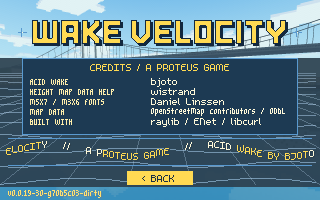
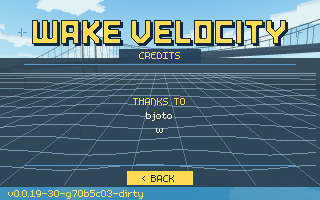
Use a vertical credits roll thanking bjoto and w

diff --git a/tools/boat_title.c b/tools/boat_title.c
@@ -555,44 +555,54 @@ static void draw_credits(const Title *t)
     }
     for (int x = -320; x <= 640; x += 64)
         DrawLine(160 + (x - 160) / 8, 73, x, 185, Fade(p.border, .2f));
-    // Solid backing keeps attribution readable at every point in the animation.
-    Color backing = p.panel;
-    backing.a = 255;
-    DrawRectangle(22, 58, 276, 77, backing);
-    DrawRectangleLines(22, 58, 276, 77, p.border);
-    const char *heading = "CREDITS / A PROTEUS GAME";
-    draw_text(t->ui, heading, (WIDTH - text_width(t->ui, heading)) / 2, 64, p.selected);
-    static const char *const labels[]
-        = { "ACID WAKE", "HEIGHT MAP DATA HELP", "M5X7 / M3X6 FONTS", "MAP DATA", "BUILT WITH" };
-    static const char *const names[] = { "bjoto", "wistrand", "Daniel Linssen",
-        "OpenStreetMap contributors / ODbL", "raylib / ENet / libcurl" };
-    for (int i = 0; i < 5; ++i) {
-        draw_text(t->small, labels[i], 30, 79 + i * 10, p.hint);
-        draw_text(i == 3 ? t->small : t->ui, names[i], 151, 78 + i * 10, p.text);
-    }
-    // Classic sine scroller, clipped in the native render target rather than window space.
-    static const char message[]
-        = "WAKE VELOCITY   //   A PROTEUS GAME   //   "
-          "ACID WAKE BY BJOTO   //   HEIGHT MAP DATA HELP BY WISTRAND   //   "
-          "FONTS BY DANIEL LINSSEN   //   MAP DATA: OPENSTREETMAP CONTRIBUTORS (ODbL)   //   "
-          "BUILT WITH RAYLIB, ENET AND LIBCURL   //   GREETINGS FROM THE GOTHENBURG WATERFRONT!   "
-          "//   ";
-    int period = text_width(t->ui, message);
-    int origin = 16 - (int)fmod(elapsed * 34, period + 64);
-    for (int copy = 0; copy < 2; ++copy) {
-        int x = origin + copy * (period + 64);
-        for (size_t i = 0; message[i]; ++i) {
-            char letter[2] = { message[i], 0 };
-            if (x >= 5 && x < WIDTH - 10) {
-                int y = 147 + (int)roundf(sinf(x * .04f + phase * 2) * 6);
-                draw_text(t->ui, letter, x + 1, y + 1, p.shadow);
-                draw_text(t->ui, letter, x, y, i % 24 < 12 ? p.selected : p.text);
-            }
-            x += text_width(t->ui, letter);
+    const char *heading = "CREDITS";
+    DrawRectangle(119, 49, 82, 14, p.panel);
+    draw_text(t->ui, heading, (WIDTH - text_width(t->ui, heading)) / 2, 52, p.selected);
+    // A movie-style roll: one font, centred lines and a quiet gap between sections.
+    static const struct {
+        const char *text;
+        bool heading;
+    } lines[] = {
+        { "THANKS TO", true },
+        { "bjoto", false },
+        { "w", false },
+        { "", false },
+        { "", false },
+        { "FONTS", true },
+        { "Daniel Linssen", false },
+        { "m5x7 / m3x6", false },
+        { "", false },
+        { "", false },
+        { "MAP DATA", true },
+        { "OpenStreetMap contributors", false },
+        { "ODbL 1.0", false },
+        { "", false },
+        { "", false },
+        { "LIBRARIES", true },
+        { "raylib", false },
+        { "ENet", false },
+        { "libcurl", false },
+        { "", false },
+        { "", false },
+        { "A PROTEUS GAME", true },
+    };
+    int count = (int)(sizeof(lines) / sizeof(lines[0]));
+    int period = count * 14 + 112;
+    int origin = 98 - (int)fmod(elapsed * 10, period);
+    DrawLine(24, 64, 296, 64, p.border);
+    DrawLine(24, 165, 296, 165, p.border);
+    // Scissor coordinates are in the title's native 320x200 render target.
+    BeginScissorMode(24, 66, 272, 97);
+    for (int copy = 0; copy < 2; ++copy)
+        for (int i = 0; i < count; ++i) {
+            int y = origin + copy * period + i * 14;
+            if (y < 59 || y >= 163 || !lines[i].text[0])
+                continue;
+            int x = (WIDTH - text_width(t->ui, lines[i].text)) / 2;
+            draw_text(t->ui, lines[i].text, x + 1, y + 1, p.shadow);
+            draw_text(t->ui, lines[i].text, x, y, lines[i].heading ? p.selected : p.text);
         }
-    }
-    DrawLine(8, 138, 312, 138, p.border);
-    DrawLine(8, 165, 312, 165, p.border);
+    EndScissorMode();
     DrawRectangleRec(row_bounds(t, 0), p.selected);
     draw_text(t->ui, "< BACK", 142, 175, p.selected_text);
 }
@@ -608,7 +618,7 @@ static void draw_screen(const Title *t, const BoatTitleSettings *s, const char *
         draw_credits(t);
     else
         draw_menu(t, s, status);
-    draw_footer_text(t->small, PROTEUS_VERSION, 8);
+    draw_footer_text(t->panel == PANEL_CREDITS ? t->ui : t->small, PROTEUS_VERSION, 8);
     EndTextureMode();
 }
 

diff --git a/docs/README.md b/docs/README.md
@@ -29,7 +29,7 @@ Details and current verification limits stay in the guide.
 | Area and owning document | Implemented | Remaining / next task |
 | --- | --- | --- |
 | [Free-riding adventure / Vinga](FREE_RIDING_ADVENTURE_PLAN.md) | A0.1 original river [inventory and reference](adventure/baseline.md), A0.2 [pinned coastal sources](adventure/README.md#coastal-sources-a02-2026-10-25) (OSM corridor, land polygons, Vinga A storm slice; terrain not acquired), A0.3 [route/coverage survey](adventure/README.md#route-and-coverage-survey-a03-2026-10-25) (19.6 km candidate route to Vinga, 10.9 km² first slice to Långedrag, 512 m tile experiment) and A0.4 [controlled river baseline](adventure/baseline.md#a04-controlled-river-baseline--2026-10-25) (M1 Max frame p95 ≤5.7 ms; paced display 58.6 Hz, since 60.00 Hz with the [frame pacer](BOATING_PERFORMANCE.md#frame-pacing--2026-10-25)) completed 2026-10-25, closing A0 with its [decision record](FREE_RIDING_ADVENTURE_FIRST_STEPS.md#a0-decision-record--2026-10-25); A1.1 [explicit map description and caller-owned collision cache](FREE_RIDING_ADVENTURE_FIRST_STEPS.md#a11--explicit-map-data-and-collision-cache-construction) completed 2026-10-25 with unchanged river queries and captures; A1.2 [caller-owned world resources through worlds, sessions, fleets and networking](FREE_RIDING_ADVENTURE_FIRST_STEPS.md#a12-result-2026-10-25) completed 2026-10-25 with the global wrapper removed and traces, captures and content digest unchanged; A1.3 [view-owned water-mesh caches](FREE_RIDING_ADVENTURE_FIRST_STEPS.md#a13-result-2026-10-25) completed 2026-10-25 with mesh topology and all CPU/GPU review captures unchanged; A1.4 [explicit CPU/GPU scenery binding](FREE_RIDING_ADVENTURE_FIRST_STEPS.md#a14-result-2026-10-25) completed 2026-10-25 with all river captures unchanged; A1.5 [lifecycle/parity gate](FREE_RIDING_ADVENTURE_FIRST_STEPS.md#a15-result-2026-10-25) completed 2026-10-25 (reload, release, failure and GPU recreate parity; ASan/UBSan clean; frame p95 within the A0.4 baseline), [completing A1](FREE_RIDING_ADVENTURE_FIRST_STEPS.md#a1-completion--2026-10-25); A2 [tiled current river](FREE_RIDING_ADVENTURE_FIRST_STEPS.md#a2--tiled-current-river) split into A2.1–A2.5, with A2.1 [submission and triangle counters](FREE_RIDING_ADVENTURE_FIRST_STEPS.md#a21-result-2026-10-25) (pixels and traces unchanged) and A2.2 [tile catalogue and indexed collision](FREE_RIDING_ADVENTURE_FIRST_STEPS.md#a22-result-2026-10-25) (16 m grid; no mismatch in 3.6 M comparisons with the full scan) and A2.3 [per-tile land culling](FREE_RIDING_ADVENTURE_FIRST_STEPS.md#a23-result-2026-10-25) (1 km tiles; median map triangles 0.86 M → 0.14 M, GPU p50 −14%) completed 2026-10-25, and A2.4 [indexed water](FREE_RIDING_ADVENTURE_FIRST_STEPS.md#a24-result-2026-10-26) (256 m grid; CPU captures identical, mean CPU triangles 2.34 M → 1.30 M; GPU waves captures identical to main; GPU CTests passed) completed 2026-10-26, and A2.5 [same-view scaling](FREE_RIDING_ADVENTURE_FIRST_STEPS.md#a25-result-2026-10-26) (synthetic corridors to 25 km: queries, patches and visible water identical and constant-cost; CPU water tessellated lazily, 218 MB to 112 MB; GPU timing not run) completed 2026-10-26, completing A2; detailed [execution ledger](FREE_RIDING_ADVENTURE_FIRST_STEPS.md) | A3.1 [baked first-slice map](FREE_RIDING_ADVENTURE_FIRST_STEPS.md#a31-result-2026-10-26) (16.5 km² region; the A0.3 route is water under collision queries; not yet a playable location) and A3.1b [Baskarta land heights](FREE_RIDING_ADVENTURE_FIRST_STEPS.md#a31b-result-2026-10-26) (CC0 contours, 20 m inland / 5 m near shore, 165 k triangles, heights to 78 m; datum unconfirmed, GPU tests not run) completed 2026-10-26, and A3.2 [mapped `outer` location](FREE_RIDING_ADVENTURE_FIRST_STEPS.md#a32-result-2026-10-26) (`--location outer`; CPU and GPU captures, full suite passed; frame cost unmeasured) the same day, and A3.3 [river buildings and bridge baked into the outer map](FREE_RIDING_ADVENTURE_FIRST_STEPS.md#a33-result-2026-10-26) (240 k triangles; flat 3.5 m ground inside the river crop; CPU and GPU captures under the bridge; GPU frame time unmeasured); A3.4 [Långedrag voyage](FREE_RIDING_ADVENTURE_FIRST_STEPS.md#a34-result-2026-10-26) (solo `outer`: destination cue and controlled-speed arrival, shelters with recovery, fixed exposed rough water; autopilot-verified, unplayed; GPU captures partial) completed 2026-10-26; after the [first playtest](FREE_RIDING_ADVENTURE_FIRST_STEPS.md#a34-playtest-2026-10-26) (long run, barren past the bridge), A3.5a [dressing past the bridge](FREE_RIDING_ADVENTURE_FIRST_STEPS.md#a35a-result-2026-10-26) (1,956 OSM buildings on the terrain, container cranes, channel marks, 3,050 authored trees; 307 k triangles; unplayed, GPU frame time unmeasured) completed 2026-10-26, and an [explorer boat](FREE_RIDING_ADVENTURE_FIRST_STEPS.md#explorer-boat-2026-10-26) (`--skin explorer`: about 30 m/s when free boating solo; courses and rooms unchanged; unplayed) the same day; A3.5b [Höjdmodell 2022 terrain](FREE_RIDING_ADVENTURE_FIRST_STEPS.md#a35b-result-2026-10-27) (CC0 laser-scanned ground for the whole outer map, the river crop's houses and street life moved onto it; 387 k triangles; CPU captures only, GPU unverified, unplayed) completed 2026-10-27, and A3.5c [river kit in `outer`](FREE_RIDING_ADVENTURE_FIRST_STEPS.md#a35c-result-2026-10-27) (Eriksberg crane, bridge deck, cafe, street furniture, frontages and quay fittings on the terrain; CPU only) the same day; Göteborg landmarks (A3.5d–A3.5g: Stena ferry, upstream extension, Karlatornet, Lilla Bommen, Hisingsbron) [planned](FREE_RIDING_ADVENTURE_FIRST_STEPS.md#must-have-landmarks-plan-2026-10-27), with A3.5e [the docked Stena ferry](FREE_RIDING_ADVENTURE_FIRST_STEPS.md#a35e-result-2026-10-27) (Stena Danica's size across from the crane, in `river` and `outer`; CPU and GPU captures, unplayed) completed 2026-10-27; A3.5 weather transition and bounded loading next ([plan](FREE_RIDING_ADVENTURE_PLAN.md)); A2.5's GPU scaling timing is still unmeasured; then the staged adventure to Vinga |
-| [Boating title and main program](TITLE_SCREEN_PLAN.md) | Marine cartoon daylight (default, blue panels/yellow title after user feedback) and retained cyan dusk menus selected with `PROTEUS_WARM_MENU`; shared backdrop/title geometry and in-game m5x7/m3x6 typography implemented 2026-10-28; setup/join/host/settings retained; dedicated [Credits screen](TITLE_SCREEN_PLAN.md#credits-screen-2026-10-28) with fixed attribution, sine scroller and water grid | Marine blue/yellow palette user-approved 2026-10-28; physical input/playback review pending; current verification and package limits in the owning plan; live backdrop, title music and volume deferred |
+| [Boating title and main program](TITLE_SCREEN_PLAN.md) | Marine cartoon daylight (default, blue panels/yellow title after user feedback) and retained cyan dusk menus selected with `PROTEUS_WARM_MENU`; shared backdrop/title geometry and in-game m5x7/m3x6 typography implemented 2026-10-28; setup/join/host/settings retained; dedicated [Credits screen](TITLE_SCREEN_PLAN.md#credits-screen-2026-10-28) with a vertical roll, Thanks to section and animated water grid | Marine blue/yellow palette user-approved 2026-10-28; physical input/playback review pending; current verification and package limits in the owning plan; live backdrop, title music and volume deferred |
 | [Gameplay sunset](SUNSET_PLAN.md) | User-selected dusk direction and staged plan recorded 2026-10-27; title-only palette preview | Shared lighting frame and unchanged-daytime parity next, then fixed sunset/dusk in CPU/GPU sky, water, scenery and window lights; gameplay sunset not implemented |
 | [Multiplayer](MULTIPLAYER_PLAN.md) | Native-first authoritative four-player design, protocol/wake strategy and verification gates; M2 local four-boat authority (`boat_fleet`, scripted `boat_server`) implemented and user-played; M3 [protocol v1](MULTIPLAYER_PROTOCOL.md), ENet transport, `boat_server` rooms, `boat_bot` and diagnostic `wake_velocity --connect` implemented; M4 step 1 client prediction (`boat_prediction`, checkpoint/input replay) implemented | M3 and M4 step 1 automated and agent-run loopback checks pass on macOS; M4 step 1 user-played beside `boat_bot` (2026-10-24); M4 steps 2 (wake reconciliation), 3 (remote view) and 4a (fleet rendering, Nordic skins by slot) implemented and automatically verified; 4a user-played with several boats and bots, 2 and 3 casually played alongside (2026-10-24); step 4b (reset feedback) implemented and automatically verified, not yet played; Mac/Windows packages carry `boat_server` for LAN rooms (Mac package checked locally; Windows CI passed 2026-10-24; three macOS CI test failures fixed, CI not yet rerun); Windows/Linux multiplayer qualification remains outstanding; browser evidence is recorded under M8; user played a two-machine LAN room (Mac host + client, Windows client) 2026-10-24 ("works great"); [LAN discovery](MULTIPLAYER_PROTOCOL.md#lan-discovery) lists rooms on the title (single-Mac checks only); M4 acceptance checks deferred by user direction (2026-10-24); [hosting from the game](MULTIPLAYER_PLAN.md#host-from-the-game--2026-10-25) (title HOST A ROOM, `wake_velocity --host`, the game as its own `--serve` room; packages ship one executable) implemented 2026-10-25, user-played on macOS ("Works great!"), Windows uncompiled; executable rename to `wake_velocity` planned there; M8 local browser slice implemented ([WebRTC evidence and limits](WEB_BUILD.md#webrtc-rooms)); M5 active: four-player lifecycle validator and bounded ENet churn harness implemented; fixed-map river hosting pulled forward from M7 (protocol v3, free/deathmatch; v4 adds race rooms; v5 drops the Eriksberg location); next: broader impairment matrix, resource measurements and long soaks ([M5 status](MULTIPLAYER_PLAN.md#m5--four-playersession-and-impairment-hardening)) |
 | [Deathmatch](DEATHMATCH_PLAN.md) | Compact starboard cannon fitted to the actual hull mesh, with expanding arcing water cubes, rearward wave grenade, torpedoes, confirmed damage numbers, bottom instruments and a V-toggle rearview mirror (hidden by default); protocol v7 | Water cannon appearance/feel and stronger grenade user-accepted 2026-10-27; deterministic combat checks pass; evidence and limits in the [owning plan](DEATHMATCH_PLAN.md#arsenal-milestone--2026-10-27); next: mirror-toggle/rounded-nose review, torpedo balance and platform/browser qualification |

diff --git a/docs/TITLE_SCREEN_PLAN.md b/docs/TITLE_SCREEN_PLAN.md
@@ -18,34 +18,38 @@ Music status belongs to the [boating plan](BOATING_PLAN.md#selectable-soundtrack
 Completed: add CREDITS before EXIT / BACK TO LAUNCHER and move the Proteus, font and map
 credits out of the title/settings/help into this panel. Five main rows retain the existing
 panel width and bottom edge. Settings keeps its six control rows and contextual hints.
-Credits keeps all attribution visible in a fixed card while an integer-pixel sine scroller
-and a receding, gently rippling water grid animate on the title presentation clock. Both
-compile-time palettes share this screen. Enter/Space, Escape or clicking BACK returns to
-CREDITS selected on the main menu; reopening restarts the animation.
+Following user review, credits now use **m5x7 throughout**, including headings, names, BACK
+and the version footer. A centred movie-style roll scrolls vertically over the retained,
+user-liked rippling water grid. The initial mixed-font card and horizontal sine scroller
+are superseded. All motion uses the title presentation clock and integral pixels.
 
-Credits include **[bjoto](https://github.com/bjoto)** for **Acid Wake** and **wistrand** for
-**height map data help**, as requested by the user. Wistrand supplied the
+The roll begins with **THANKS TO**, **bjoto**, **w**, then lists **FONTS** (Daniel
+Linssen, m5x7/m3x6), **MAP DATA** (OpenStreetMap contributors, ODbL 1.0), **LIBRARIES**
+(raylib, ENet, libcurl), and **A PROTEUS GAME**. Specific contributor roles are omitted
+on screen as requested. For source provenance: [bjoto](https://github.com/bjoto) contributed
+Acid Wake, and w supplied the
 [Gothenburg height-data source link](https://goteborg.se/wps/portal?uri=gbglnk%3A2015816171319546).
-This records help finding height data; it does not claim that new height data was imported
-in this change. Daniel Linssen (m5x7/m3x6), OpenStreetMap contributors (ODbL), Proteus and
-the raylib / ENet / libcurl libraries also appear. Existing packaged licenses and source
-attribution files remain bundled.
+Existing packaged licenses and source attribution files remain bundled. The roll loops;
+Enter/Space, Escape or clicking BACK returns to CREDITS selected on the main menu, and
+reopening restarts the roll. Both compile-time palettes share the screen.
 
-![Credits with a sine scroller and water grid](title/credits.png)
+![Movie-style credits roll over the water grid](title/credits.png)
 
 Verification, 2026-10-28, Apple Silicon/macOS: Debug builds passed for both menu palettes
-without project warnings; raylib retains its bundled stb_vorbis pointer-comparison warning.
-`ctest --preset full` passed all 230 enabled tests in 12.06 s, with 13 retired cases disabled
-and `PROTEUS_GPU_TESTS=OFF`. The first sandboxed run failed socket-dependent tests; the full
-rerun with local socket access passed. A temporary, uncommitted title harness presented 195
-windowed frames and checked keyboard entry, Enter/click/Escape return, main-row reselection,
-reopening and Exit. Main, settings and credits captures at simulated 0, 4, 18, 70, 220 and
-1000 seconds were inspected. The same 195-frame navigation/capture check passed with the cyan palette; main, settings
-and credits captures were inspected there too. These are scripted agent graphics/navigation checks.
+without project warnings; the first raylib build reported its bundled stb_vorbis warning.
+After the vertical-roll revision, `ctest --preset full` passed all 230 enabled tests in
+11.77 s, with 13 retired cases disabled and `PROTEUS_GPU_TESTS=OFF`, using local socket
+access. The initial implementation also passed its full run (12.06 s) after sandbox
+socket restrictions were removed; that evidence applies to the superseded sine scroller.
+A temporary, uncommitted title harness presented 195 windowed frames in each palette and
+checked keyboard entry, Enter/click/Escape return, main-row reselection, reopening and Exit.
+Main/settings/credits captures and vertical-roll samples through 1000 simulated seconds
+were inspected. These are scripted agent graphics/navigation checks.
 
-Next: user visual/motion review and physical navigation; browser/package qualification.
-No user acceptance, physical input/listening, browser/Windows/Linux run or GPU CTest lane
-is claimed. Title music remains deferred.
+Next: user review of the vertical roll and physical navigation; browser/package qualification.
+The user liked the initial background waves, but final roll acceptance is pending.
+No physical input/listening, browser/Windows/Linux run or GPU CTest lane is claimed.
+Title music remains deferred.
 
 ## Warm daylight alternative and shared game typography, 2026-10-28
 
@@ -263,7 +267,7 @@ they do not describe the current logo, footer or selected-row appearance.
 | Single Player | Opens River, Basin or Basin trial plus waves/smoothing setup, then starts the existing session. The explicit `--course` path remains available. | Broader mode selection remains deferred. |
 | Multiplayer | Public server selection, native LAN/host flow and manual address joining; browser WebRTC joining. | Broader platform/network qualification remains owned by the multiplayer plans. |
 | Settings | Name, boat, steering, soundtrack and smoothing. | Volume and display controls remain deferred. |
-| Credits | Fixed game/music/font/map/library attribution, sine scroller and animated water grid; BACK or Escape returns to the main menu. | Physical navigation and browser qualification remain open. |
+| Credits | Vertical roll: Thanks to, fonts, map data, libraries and Proteus, over an animated water grid; BACK or Escape returns to the main menu. | Physical navigation and browser qualification remain open. |
 | Exit | Close the native program. | On the web, replace with “Back to launcher” if the page launcher remains; browser tabs cannot be closed reliably by game code. |
 
 Up/Down or W/S moves one row; Enter/Space activates; mouse hover/click also works.

diff --git a/README.md b/README.md
@@ -134,10 +134,9 @@ cmake --build build -j
 
 The Escape menu shares the selected palette and fixed selection chevron. Menu and gameplay
 overlay text use Daniel Linssen's m5x7; title hints/footer and in-game instrument labels use
-m3x6. Both stay on the integer pixel grid. CREDITS gathers the game, music, font, map
-and library credits, with a sine-wave scroller over an animated water grid. Readable fixed
-credits include bjoto (Acid Wake) and wistrand (height map data help). Escape, Enter/Space
-or clicking BACK returns to the main menu.
+m3x6. Both stay on the integer pixel grid. CREDITS presents a movie-style vertical roll over an animated water grid, using m5x7
+throughout. A THANKS TO section names bjoto and w first, followed by fonts, map data,
+libraries and the Proteus credit. Escape, Enter/Space or clicking BACK returns to the main menu.
 [Font sources and regeneration](assets/fonts/README.md). These title grades do not change
 world lighting; [gameplay sunset is planned](docs/SUNSET_PLAN.md).
 The version is resolved at CMake configure time (reconfigure to refresh it); source archives
